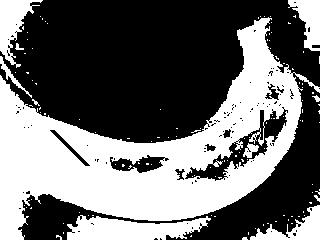
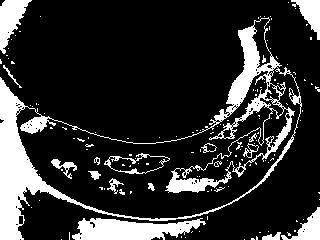
change algo

diff --git a/image2graph.py b/image2graph.py
@@ -10,10 +10,10 @@ def laplace(x):
 # constants
 # TODO need to analyze for best params
 K = 2
-bins = 25
+bins = 20
 step = math.ceil(256 / bins)
-lambda_const = 200
-sigma_const = 100
+lambda_const = 50
+sigma_const = 10
 epsilon = 1e-7
 
 
@@ -54,8 +54,12 @@ def image2graph(img, obj, bkg):
                 graph.add_edge(obj_terminal, number_of_cols * i + j, 0)
                 graph.add_edge(number_of_cols*i + j, bkg_terminal, K)
             else:
-                R_obj = -np.log(obj_probs[img[i][j] // step] + epsilon)
-                R_bkg = -np.log(bkg_probs[img[i][j] // step] + epsilon)
+                condition_obj_prob = obj_probs[img[i][j] // step] \
+                                     / (obj_probs[img[i][j] // step] + bkg_probs[img[i][j] // step])
+                condition_bkg_prob = bkg_probs[img[i][j] // step] \
+                                     / (obj_probs[img[i][j] // step] + bkg_probs[img[i][j] // step])
+                R_obj = -np.log(min(condition_obj_prob + epsilon, 1))
+                R_bkg = -np.log(min(condition_bkg_prob + epsilon, 1))
                 graph.add_edge(obj_terminal, number_of_cols*i + j, lambda_const*R_bkg)
                 graph.add_edge(number_of_cols*i + j, bkg_terminal, lambda_const*R_obj)
             intensity = img[i][j]

diff --git a/segmentation-tests/test.py b/segmentation-tests/test.py
@@ -79,5 +79,5 @@ def analyze_all():
         print('--------------------------------------------------------')
 
 
-# analyze_all()
-solo_test(5)
+analyze_all()
+# solo_test(4)
